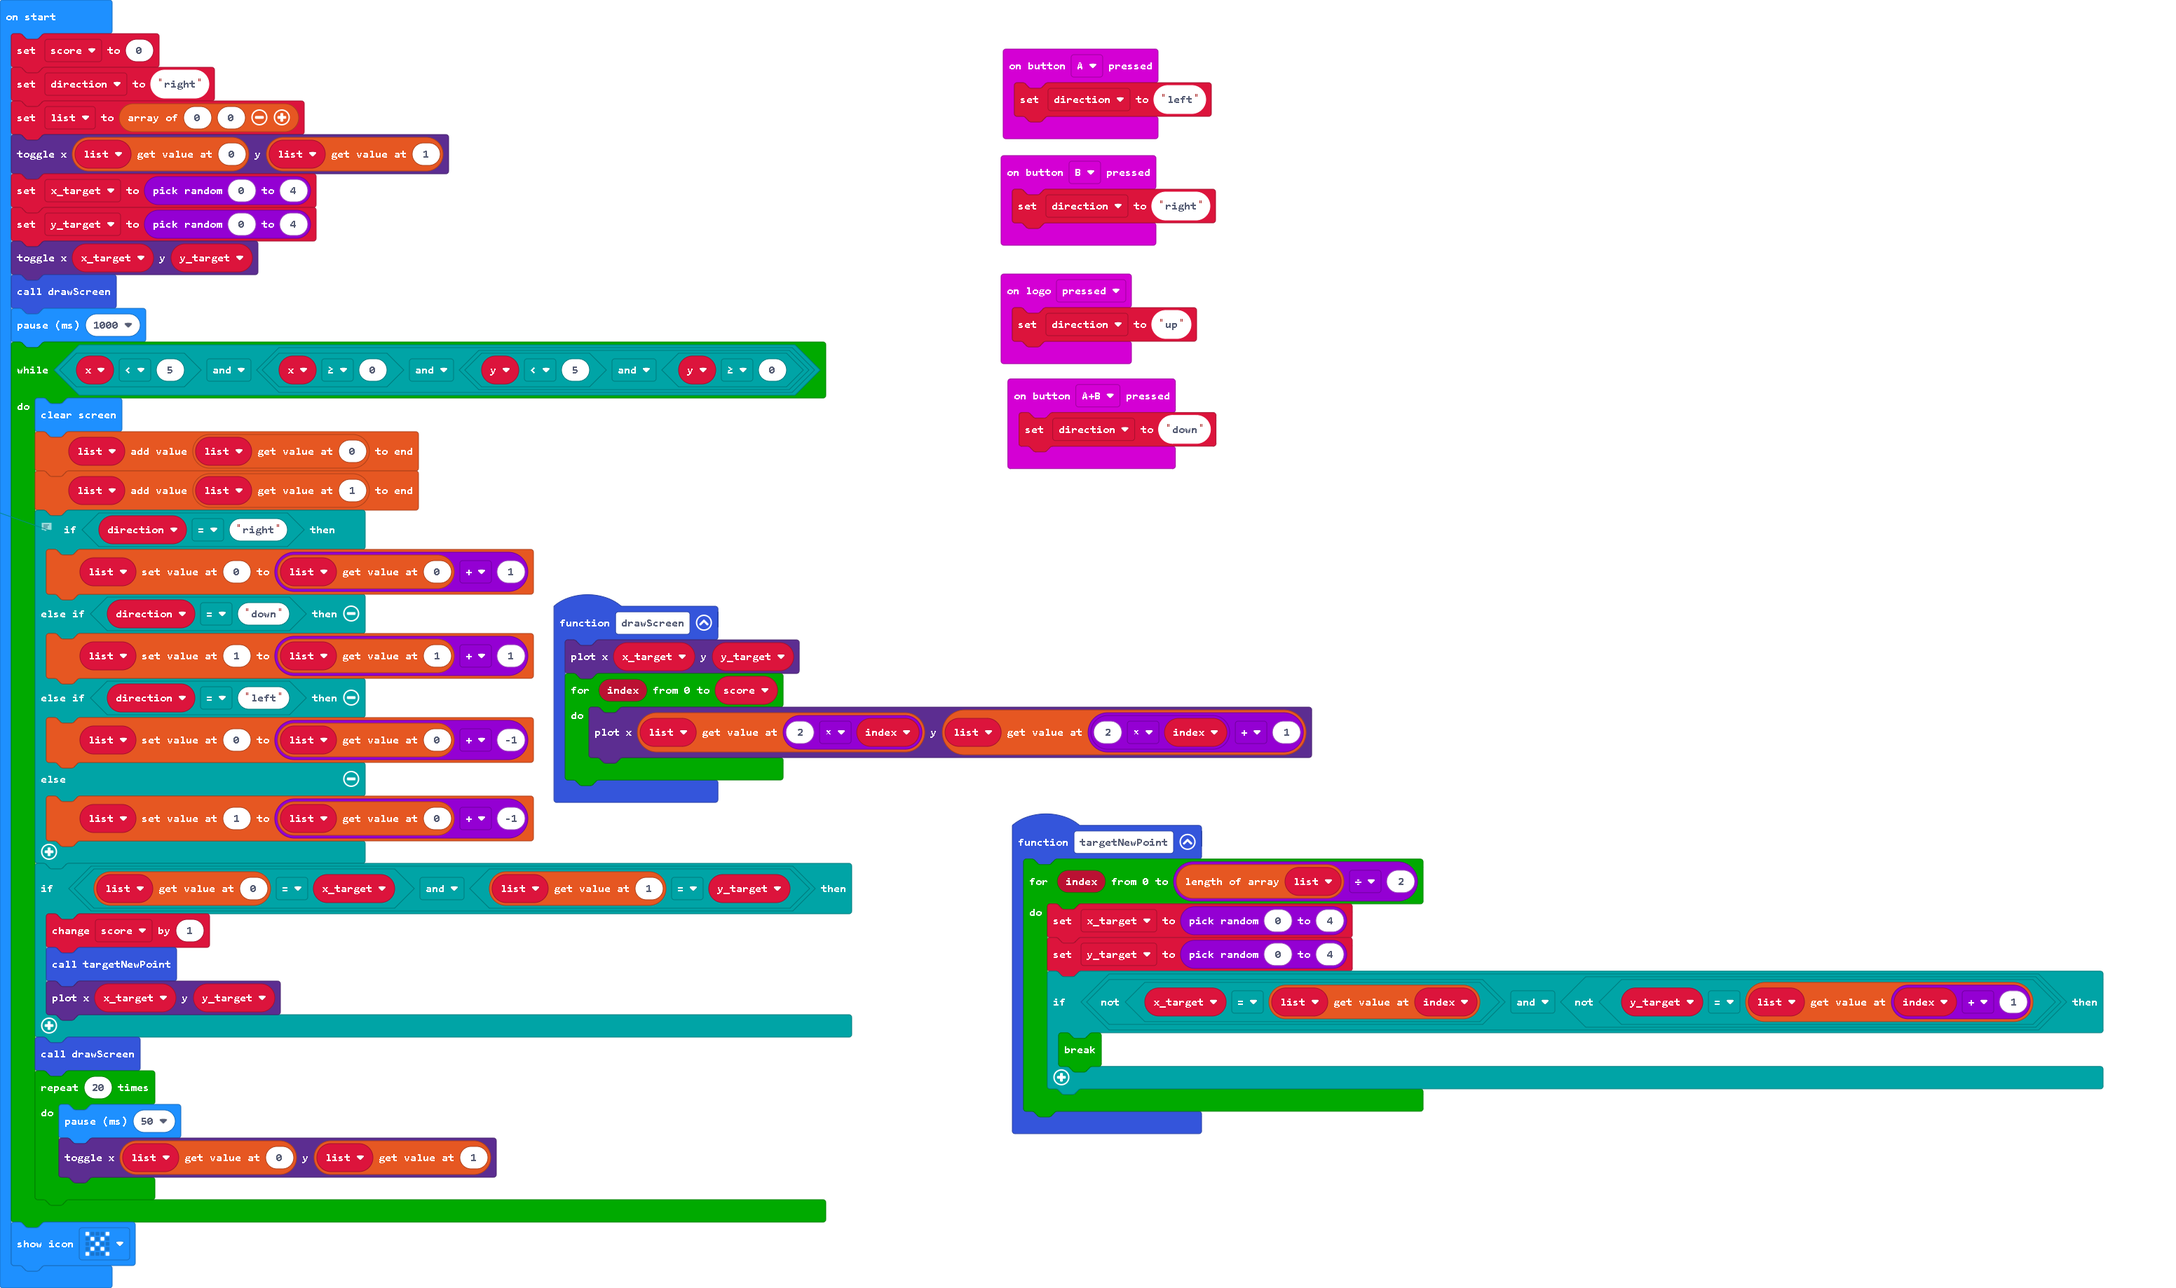
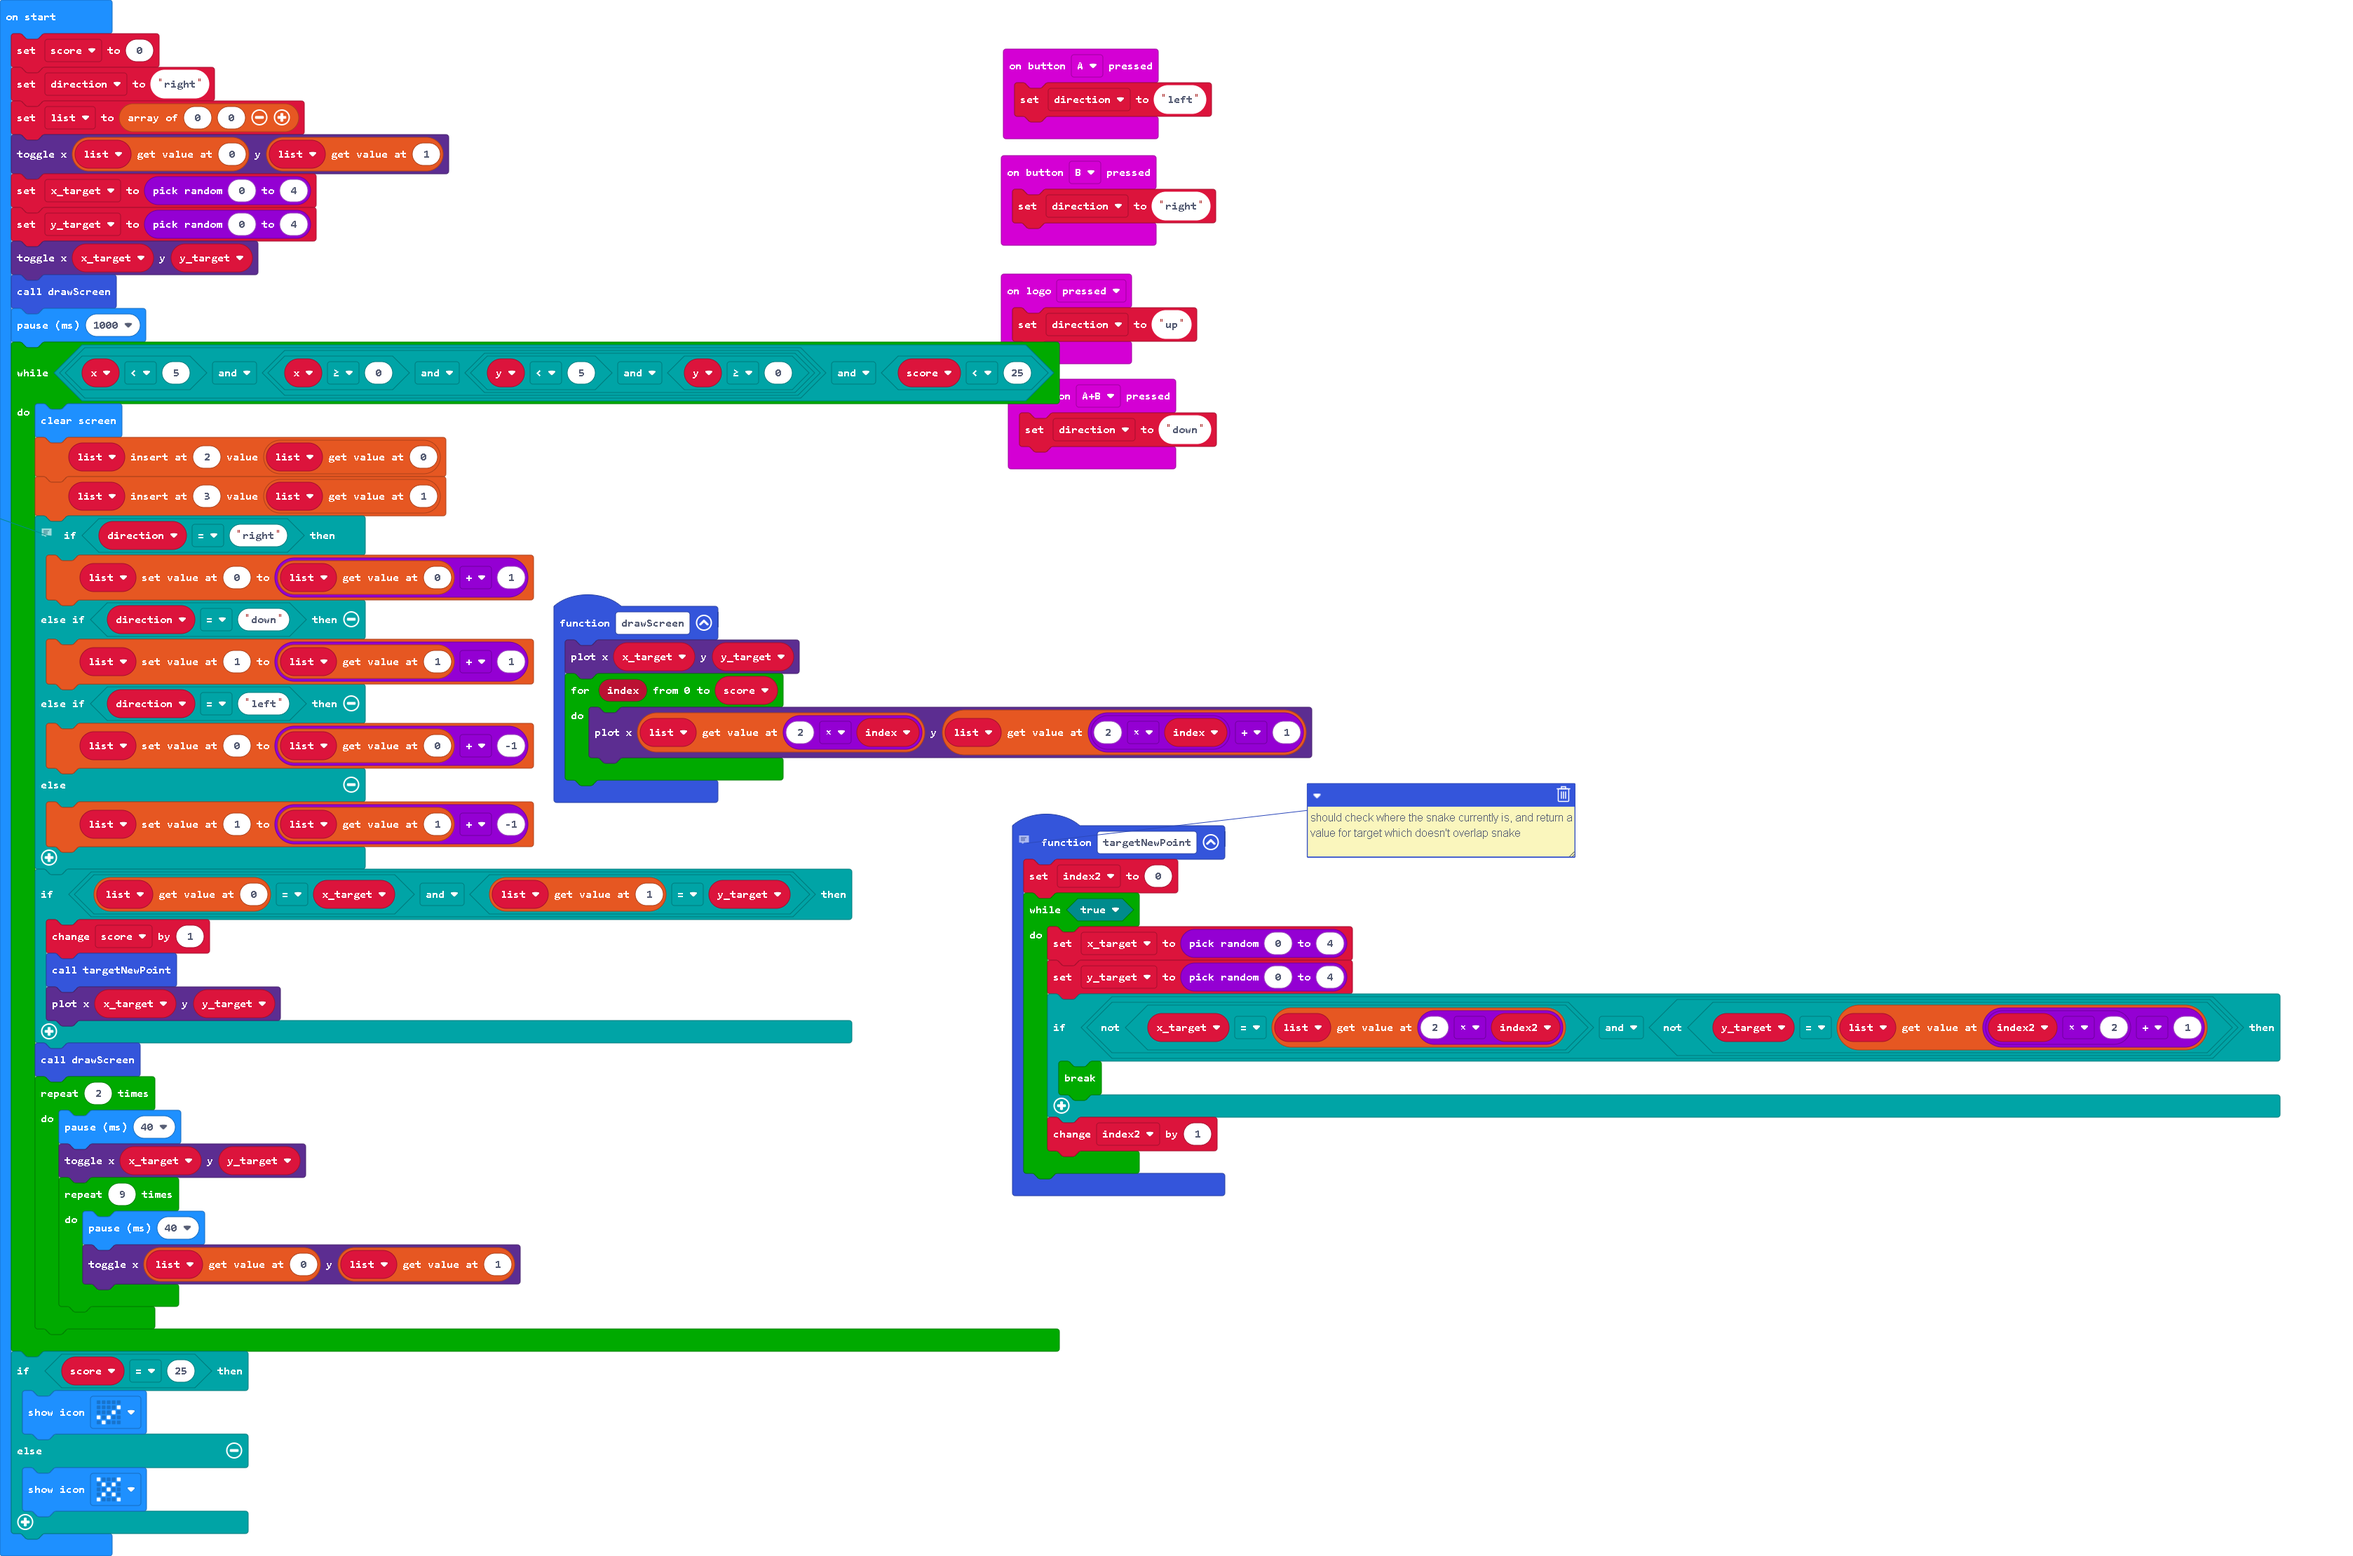
fixed bugs, fixed newTarget, added 25 as max score

diff --git a/main.ts b/main.ts
@@ -1,10 +1,13 @@
+// should check where the snake currently is, and return a value for target which doesn't overlap snake
 function targetNewPoint () {
-    for (let index = 0; index <= list.length / 2; index++) {
+    index2 = 0
+    while (true) {
         x_target = randint(0, 4)
         y_target = randint(0, 4)
-        if (!(x_target == list[index]) && !(y_target == list[index + 1])) {
+        if (!(x_target == list[2 * index2]) && !(y_target == list[index2 * 2 + 1])) {
             break;
         }
+        index2 += 1
     }
 }
 input.onButtonPressed(Button.A, function () {
@@ -25,6 +28,7 @@ function drawScreen () {
         led.plot(list[2 * index], list[2 * index + 1])
     }
 }
+let index2 = 0
 let y = 0
 let x = 0
 let y_target = 0
@@ -41,10 +45,10 @@ y_target = randint(0, 4)
 led.toggle(x_target, y_target)
 drawScreen()
 basic.pause(1000)
-while (x < 5 && (x >= 0 && (y < 5 && y >= 0))) {
+while (x < 5 && (x >= 0 && (y < 5 && y >= 0)) && score < 25) {
     basic.clearScreen()
-    list.push(list[0])
-    list.push(list[1])
+    list.insertAt(2, list[0])
+    list.insertAt(3, list[1])
     // movement if statements
     // 
     if (direction == "right") {
@@ -54,7 +58,7 @@ while (x < 5 && (x >= 0 && (y < 5 && y >= 0))) {
     } else if (direction == "left") {
         list[0] = list[0] + -1
     } else {
-        list[1] = list[0] + -1
+        list[1] = list[1] + -1
     }
     if (list[0] == x_target && list[1] == y_target) {
         score += 1
@@ -62,9 +66,17 @@ while (x < 5 && (x >= 0 && (y < 5 && y >= 0))) {
         led.plot(x_target, y_target)
     }
     drawScreen()
-    for (let index = 0; index < 20; index++) {
-        basic.pause(50)
-        led.toggle(list[0], list[1])
+    for (let index = 0; index < 2; index++) {
+        basic.pause(40)
+        led.toggle(x_target, y_target)
+        for (let index = 0; index < 9; index++) {
+            basic.pause(40)
+            led.toggle(list[0], list[1])
+        }
     }
 }
-basic.showIcon(IconNames.No)
+if (score == 25) {
+    basic.showIcon(IconNames.Yes)
+} else {
+    basic.showIcon(IconNames.No)
+}
